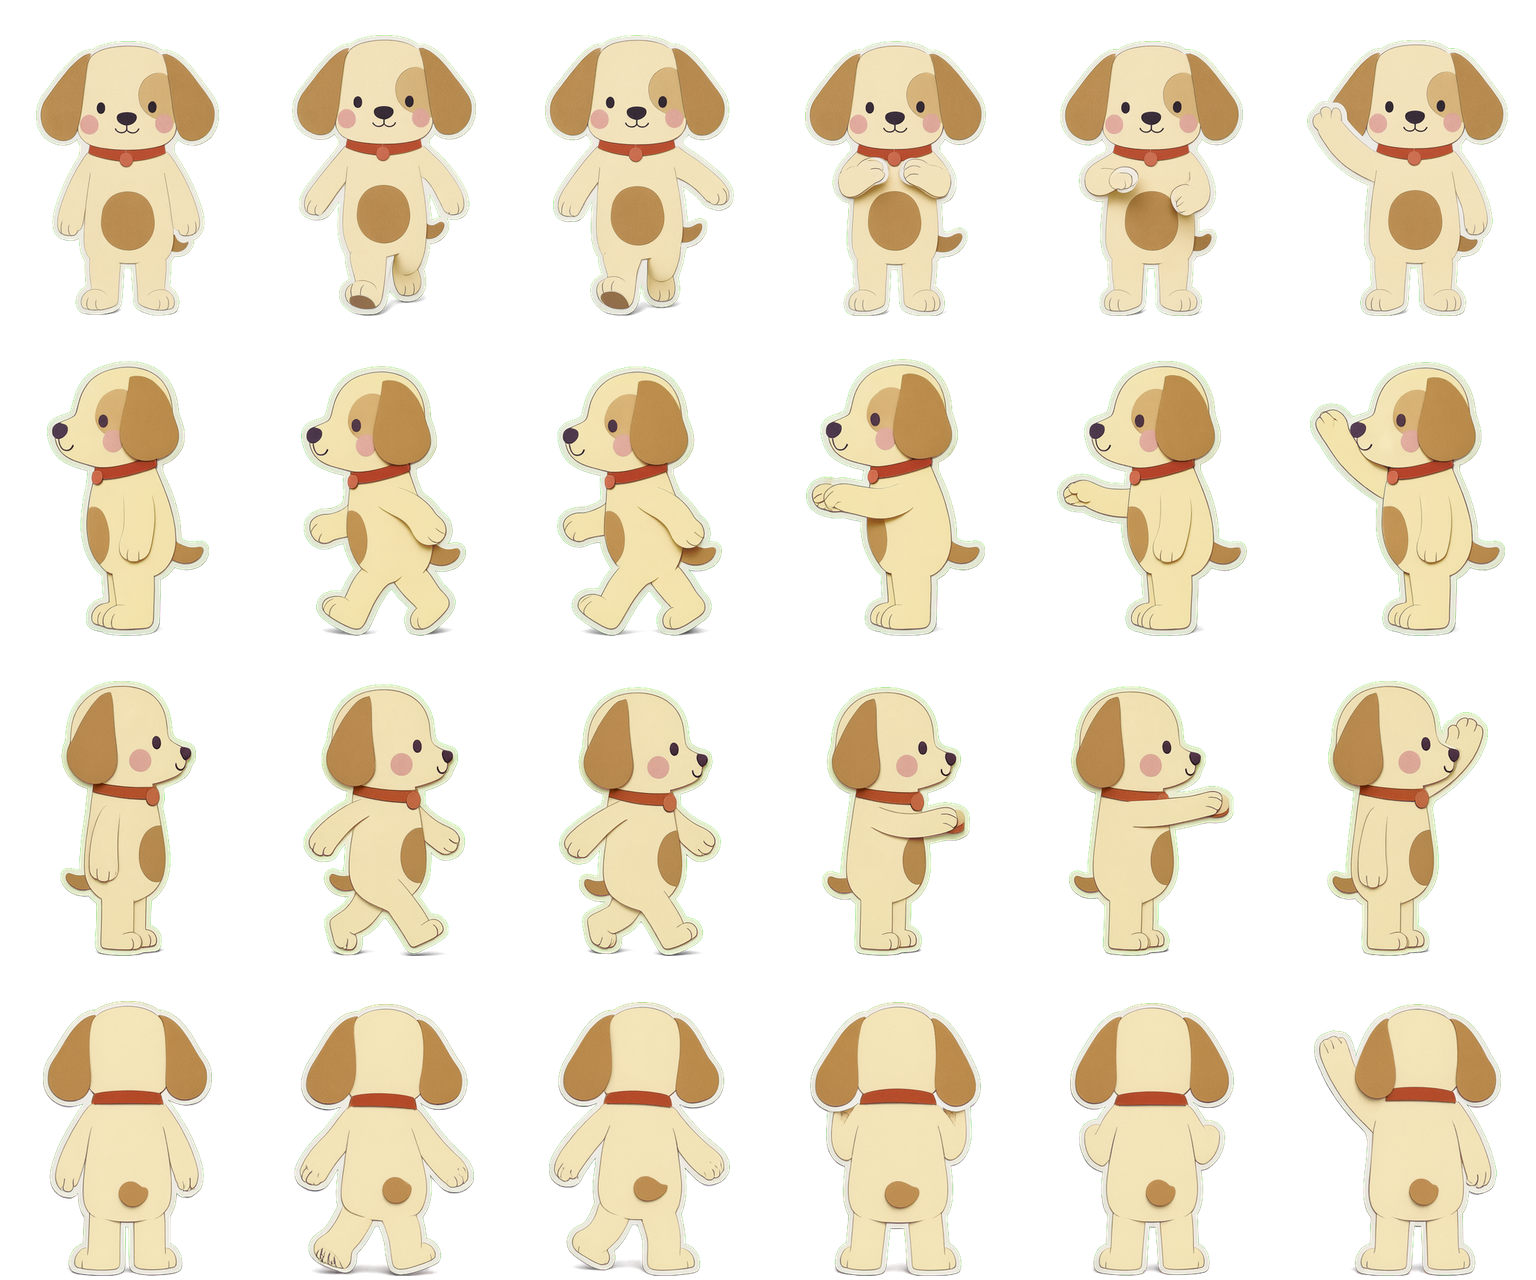
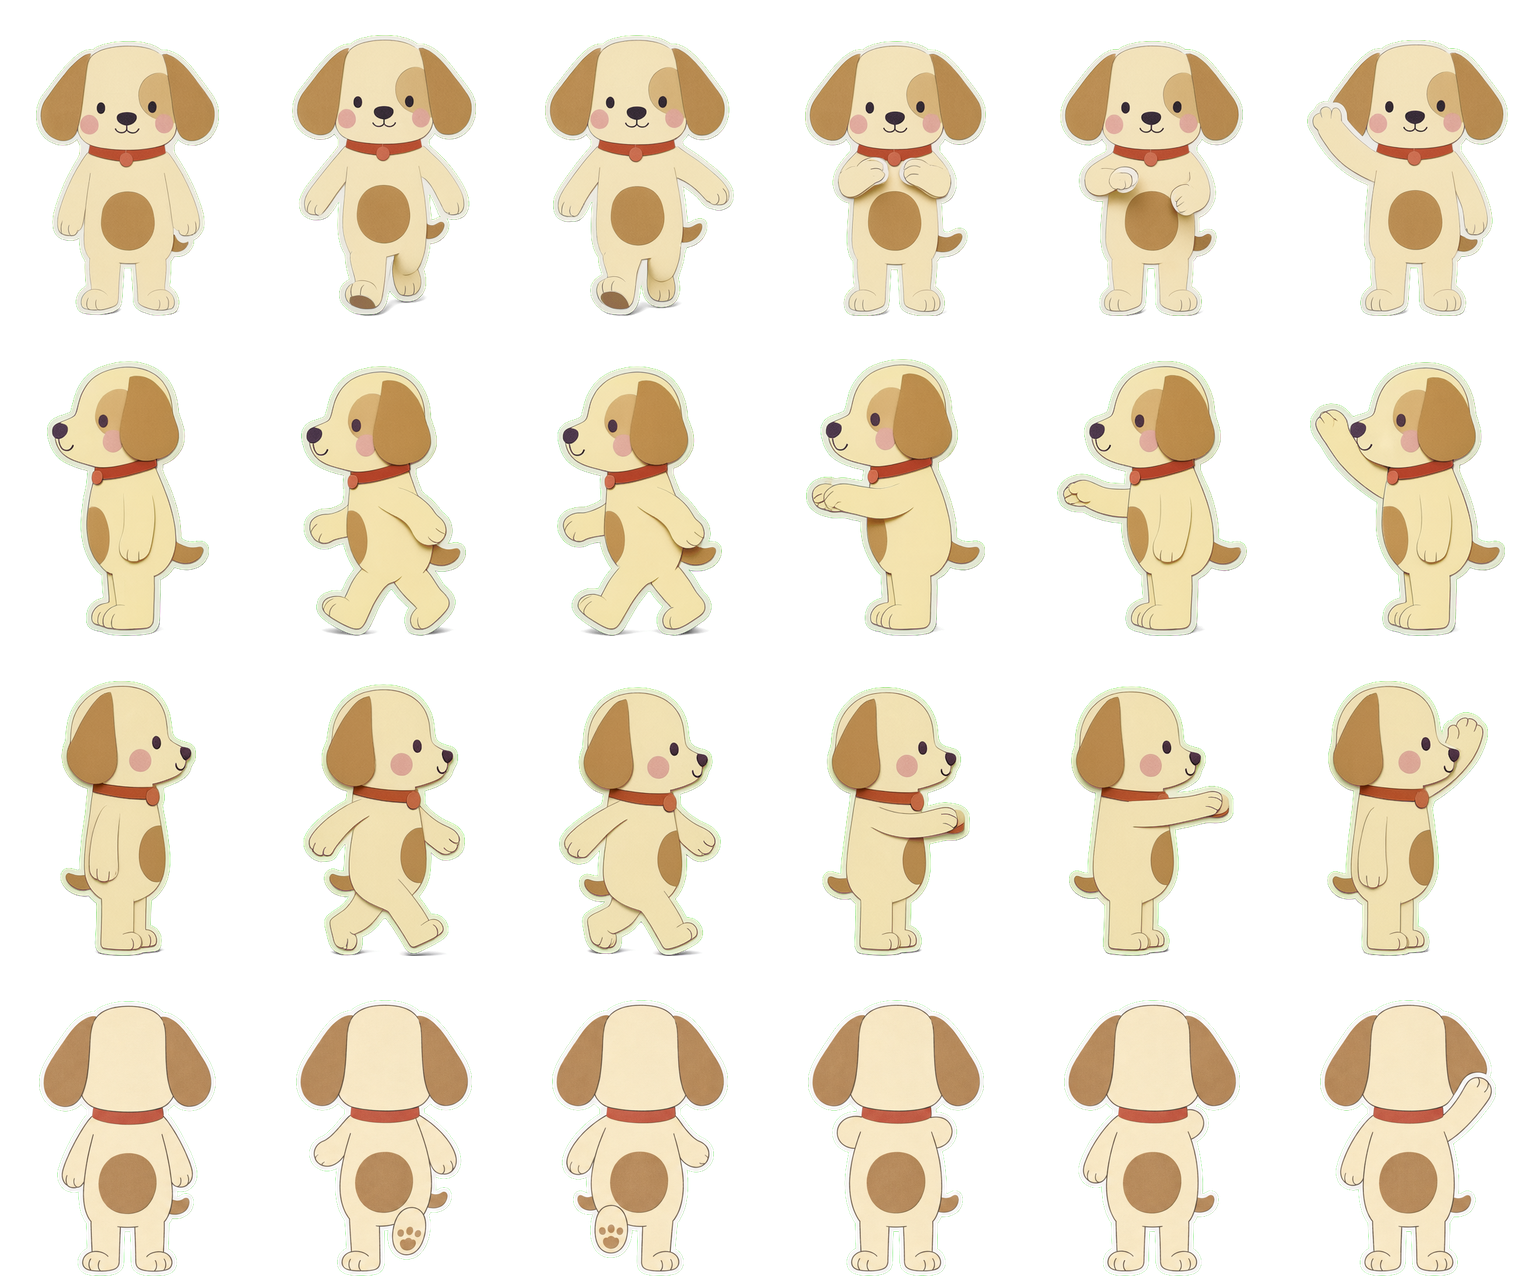
Primepaw: the standee's back strip redrawn with GPT Image 2.6, legs under the body
Seen from behind, Qwen Image 2.1 splays the puppy's walking legs out
sideways and plants both feet wide, however the prompt words it, so the
up-facing walk read as a side-step. The back strip is redrawn with GPT
Image 2.6 Sunburst as an edit of the same body reference: the legs stay
under the body, one foot lifts with its sole showing, and the six cells
come out the same size. The model returns a transparent PNG, composited
onto chroma green with the faint halo dropped so build.py keys it like
the other sources.

Only the up row of pet/dog-walk.png changes; the atlas, the face and the
walk manifest rebuild byte for byte, and every facing stands 275 px with
its feet on the same line. The character skill's comfy.md records the
route and its cost, its walk-up prompt clause spells the walk out, and
pet/README.md names the model.

diff --git a/mockups/primepaw/.claude/skills/primepaw-character/references/comfy.md b/mockups/primepaw/.claude/skills/primepaw-character/references/comfy.md
@@ -62,6 +62,20 @@ Two stages, because the walk strips need the body:
 1. **From the base:** the six mood sheets, the avatar and the body, eight items in one batch.
 2. **From the body:** the four walk strips (down, left, right, up), four items in one batch.
 
+The back strip is the one Qwen gets wrong: seen from behind it splays the walking legs out sideways,
+however the prompt words it. The puppy's `walk-up.png` was redrawn with GPT Image 2.6 Sunburst, a
+paid partner model, and that is the route to take when a second seed does not fix a back strip. The
+graph is `LoadImage` (the body) → `OpenAIGPTImageNodeV2` (`model` `gpt-image-2.6-sunburst`,
+`model.size` `1536x1024`, `model.quality` `high`, the body on `model.images.image_1`) →
+`SaveImageAdvanced`, sent with `submit_workflow`, because the batch tool's bundled catalog can lag the
+live one and refuse the template by name. Ask for a grid of 3 columns and 2 rows at that size (the model
+draws 3:2, not a 4:1 strip, and `build.py` reads the six cells in reading order either way) and spell the
+walk out: legs under the body, one foot lifted so its sole shows, never spread sideways. It costs 5 to
+29 credits an image and the spend is gated, so ask the user before submitting. It returns a transparent
+PNG rather than a green sheet, the figure at alpha 250 to 254 with a faint halo below 30: composite it
+onto `#00FF00` with the alpha remapped (0 below 24, opaque from 250) before saving it as the source, so
+the slicer keys it like the others.
+
 Before the first batch, `estimate_credits` with `template_name: image_qwen_image_2_1_image_edit` says
 what one edit costs; tell the user the total for twelve before spending it.
 
@@ -85,6 +99,7 @@ with a new seed when:
 
 Judge the walk strips as a set: `build.py` scales each facing to the same standing height, so a strip
 drawn a little smaller is fine, but one drawn much smaller comes out soft. The figure must stay upright
-and square to the viewer in every cell; the back view is the one the model twists, so look at its
-walking cells closely. The avatar must be one round sticker filling the frame, and the body a full figure
+and square to the viewer in every cell; the back view is the one Qwen gets wrong, twisting the body
+or splaying the legs, so look at its walking cells closely and reach for GPT Image (above) if a second
+seed does not fix it. The avatar must be one round sticker filling the frame, and the body a full figure
 with its feet on the ground and nothing cropped.

diff --git a/mockups/primepaw/pet/README.md b/mockups/primepaw/pet/README.md
@@ -41,7 +41,9 @@ The Factory Overseer (the `Factory-Redesign` branch) draws each agent as a paper
 fixed 38-degree camera and reads a pet sheet by URL: 6 columns, one row per facing (down, left, right,
 up). Column 0 stands, 1 and 2 are the two steps of a walk (it plays 0, 1, 2, 1 at 8 frames a second,
 facing the way it goes), 3 and 4 the two beats of working (5.5 a second), 5 and 0 the wave for
-attention (3.2 a second), with a little lift and roll on top. `dog-walk.png` is cut to that layout, the
+attention (3.2 a second), with a little lift and roll on top. The back strip, `src/dog/walk-up.png`, was
+drawn with GPT Image 2.6 Sunburst rather than Qwen, which splays the legs when the puppy walks away;
+the character skill's `comfy.md` has that recipe. `dog-walk.png` is cut to that layout, the
 puppy's feet on the cell's ground line and the standing puppy 86% of the cell's height, so the host
 hands it over as
 

diff --git a/mockups/primepaw/.claude/skills/primepaw-character/references/prompts.md b/mockups/primepaw/.claude/skills/primepaw-character/references/prompts.md
@@ -70,4 +70,4 @@ order, in every facing. The facing clause is the only thing that changes between
 - `walk-down`: "straight from the front, facing the viewer"
 - `walk-left`: "from the side in profile, turned to face the left edge of the picture, so we see {SIDE}"
 - `walk-right`: "from the side in profile, turned to face the right edge of the picture, so we see {SIDE} mirrored, its snout pointing right and its tail at the left"
-- `walk-up`: "from behind, facing away from the viewer, so we see {BACK}"
+- `walk-up`: "from directly behind, facing straight away from the viewer, so we see {BACK}; its body stays square to the viewer, never turning, and when it walks its legs stay under its body, one foot lifted so its sole shows, never spread sideways"
